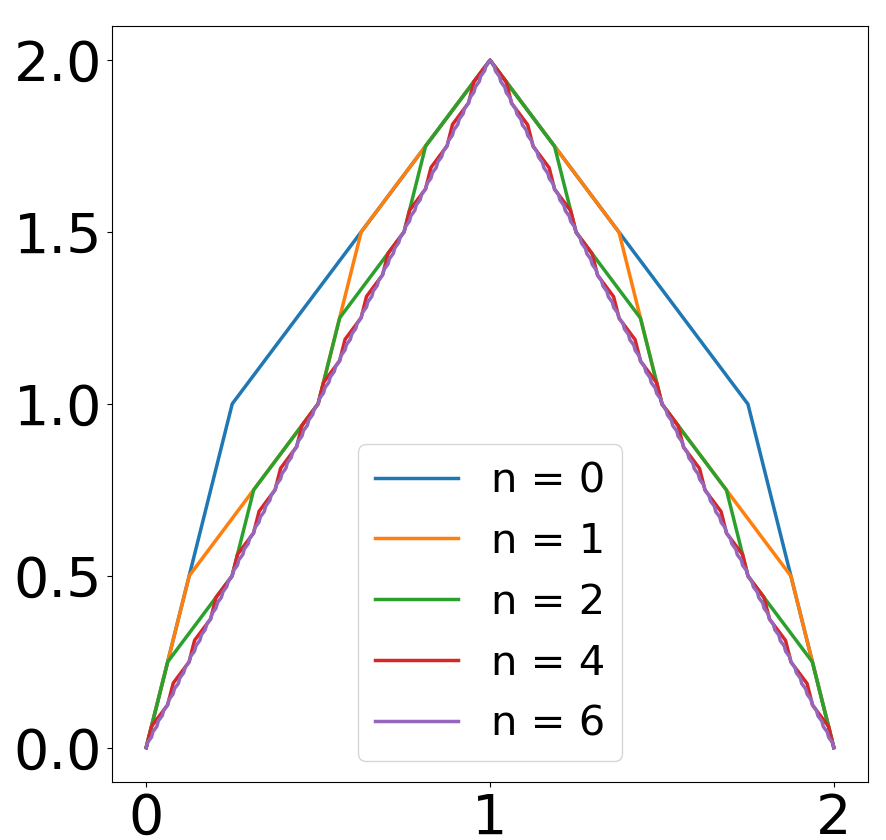
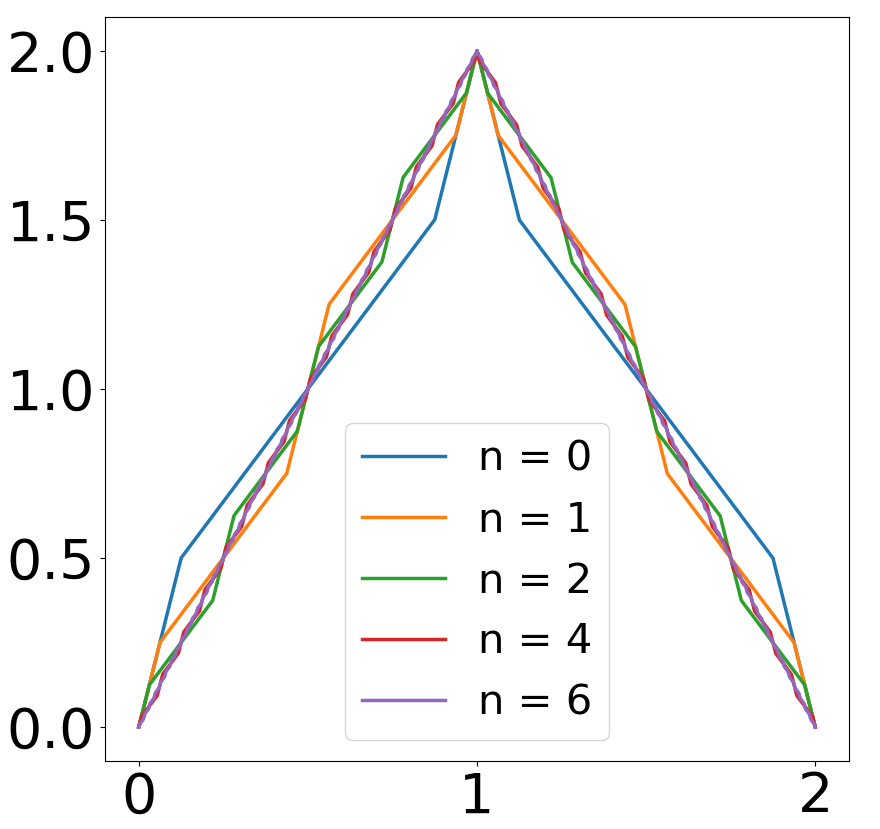
Add figures of the new map

diff --git a/code/tent_sens_stat/plot_map.py b/code/tent_sens_stat/plot_map.py
@@ -36,10 +36,10 @@ def accumulate(nbins, n, m, s):
     return density
 
 nbins = 2**13
-ns = 1
-nn = 1
-n_arr = [1]
-s_arr = [0.5]
+ns = 5
+nn = 5
+n_arr = [0, 1, 2, 4, 6]
+s_arr = [0.005, 0.1, 0.2, 0.4, 0.5]
 
 x = linspace(0, 2, nbins+2)[1:-1]
 ys = zeros((ns,nbins))

diff --git a/code/tent_sens_stat/plot_density.py b/code/tent_sens_stat/plot_density.py
@@ -14,7 +14,6 @@ def oscillation(x,s):
         return tent_basic(2*x,s)/2
     return 2-tent_basic(2-2*x,s)/2 
 
-
 @numba.jit(nopython=True)
 def frequency(x,s,n):
     return oscillation(2**n*x - floor(2**n*x),s)/2**n + \
